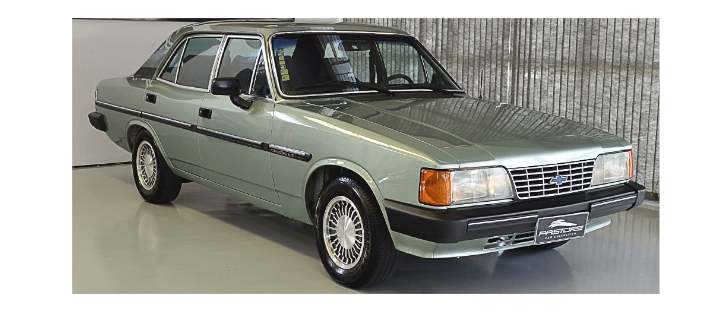
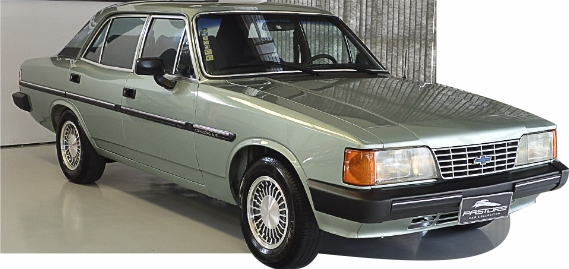
Incluido BackGround color

diff --git a/index.html b/index.html
@@ -8,7 +8,7 @@
     
 </head>
 <body>
-    
+    <div class="bg">
     
     <ul id="menu">
         <li>
@@ -21,12 +21,14 @@
     <h1 class="center" >Opala Comodoro 89</h1>
     <div class="container">
     
-    <img src="assests/img/Chevrolet-Opala-Comodoro-SL-E-4.1-S-1990-Motor-Tudo-9.jpeg" alt="Foto opala">
+    <img src="assests/img/Chevrolet-Opala-Comodoro-SL-E-4.1-S-1990-Motor-Tudo-9_1.png" alt="Foto opala">
     </div>
    
 
     <div class="p-30">
-    <p class="justify ">Para qualquer colecionador respeitável, 659Km rodados originais já diz tudo sobre uma obra de arte. Certamente o Opala Comodoro 1989 4cc fabricado na cor Cinza Nimbus diz tudo. Observe cada foto, cada detalhe; o carro parece que saiu de fábrica recentemente. Certamente ele será um paradigma para as próximas gerações. Nenhuma peça foi substituída, quebrada ou danificada. Os pneus são originais, o estepe é original e nunca foi rodado. O carpe do porta-malas parece que nunca foi usado. O volante absolutamente zero, sem marcas, acompanhando também a manopla do câmbio. O motor trabalha com perfeição. Durante nossa vistoria o motor permaneceu funcionando. Todas as etiquetas do fabricante são originais. Observe os puxadores de portas, o isqueiro também nunca foi usado. Faróis e lentes dos piscas originais do veículo; é como se fossem novos. Aparentemente o carro nunca foi exposto à chuva ou sol. Vidros originais não possuem riscos. As etiquetas do para-brisa originais. A beleza do carro ainda se estende na parte inferior do mesmo. A suspensão e a parte inferior do motor parece que foram fabricados há pouco tempo. Fazemos questão de que você analise as dezenas de fotos da suspensão, motor e da parte inferior do veículo. Absolutamente perfeito, original e sem retoques, com todas as marcas de fábrica. Observe as cores verde e amarelo feitas em pincel na parte frontal do agregado e no diferencial a pintura verde. As etiquetas do fabricante ainda se encontram no eixo traseiro. Não existem marcas de barro ou de areia em qualquer lugar do veículo. Os cubos de roda externo e internos ainda com pintura original e sem sujeiras. A vedação do tanque de combustível ainda possui a resina preta de fábrica. Observe a pintura do fundo do carro onde em alguns locais a pistola do pintor na fábrica efetuou pintura com a clássica cor verde azulado característico do fabricante. Em outras partes do fundo você pode observar que não foi efetuado tal procedimento. Somente um carro absolutamente com baixíssima quilometragem consegue esse nível de perfeição e originalidade. Observe a foto onde aparece o diferencial do veículo com a barra transversal, acima do mesmo a tinta não foi aplicada na fábrica, permanecendo apenas a tinta do fundo, entre outros detalhes maravilhosos. Outro detalhe importantíssimo, fotografamos o interior do para-choque e o suporte do mesmo suporte, sem comentários. As borrachas e plásticos em toda a superfície do carro encontram-se em excelente estado (aparência de novas). As borrachas dos vidros e seu encaixe na lataria do veículo também demonstram que o carro não sofreu com a ação do tempo, barro ou areia. Um detalhe surpreendente é a foto da caixa de mudanças, ainda com a pintura original; sem marcas de graxa, barro ou avarias. Somente um veículo com 600Km rodados pode apresentar um nível de originalidade e perfeição dessa forma. Uma joia de 31 anos de idade literalmente intocado mecanicamente, estruturalmente e em seu interior. Nada foi substituído no carro. Outro detalhe marcante são os dutos de saúda do ar para o habitáculo, no interior do veículo. Perfeitos, sem qualquer uso. Certamente um ganhador de troféus em qualquer evento que comparecer. Acompanha ainda manual do proprietário entre outros documentos do fabricante e a chave reserva. O carro não possui placa preta, entretanto ainda possui placas cinza, e acompanha o primeiro jogo de placas do mesmo.</p>  
+    <p class="justify ">Para qualquer colecionador respeitável, 659Km rodados originais já diz tudo sobre uma obra de arte. Certamente o Opala Comodoro 1989 4cc fabricado na cor Cinza Nimbus diz tudo. Observe cada foto, cada detalhe; o carro parece que saiu de fábrica recentemente. Certamente ele será um paradigma para as próximas gerações. Nenhuma peça foi substituída, quebrada ou danificada. Os pneus são originais, o estepe é original e nunca foi rodado. O carpe do porta-malas parece que nunca foi usado. O volante absolutamente zero, sem marcas, acompanhando também a manopla do câmbio. O motor trabalha com perfeição. Durante nossa vistoria o motor permaneceu funcionando. Todas as etiquetas do fabricante são originais. Observe os puxadores de portas, o isqueiro também nunca foi usado. Faróis e lentes dos piscas originais do veículo; é como se fossem novos. Aparentemente o carro nunca foi exposto à chuva ou sol. Vidros originais não possuem riscos. As etiquetas do para-brisa originais. A beleza do carro ainda se estende na parte inferior do mesmo. A suspensão e a parte inferior do motor parece que foram fabricados há pouco tempo. Fazemos questão de que você analise as dezenas de fotos da suspensão, motor e da parte inferior do veículo. Absolutamente perfeito, original e sem retoques, com todas as marcas de fábrica. Observe as cores verde e amarelo feitas em pincel na parte frontal do agregado e no diferencial a pintura verde. As etiquetas do fabricante ainda se encontram no eixo traseiro. Não existem marcas de barro ou de areia em qualquer lugar do veículo. </p>
+        
+    <p class="justify">Os cubos de roda externo e internos ainda com pintura original e sem sujeiras. A vedação do tanque de combustível ainda possui a resina preta de fábrica. Observe a pintura do fundo do carro onde em alguns locais a pistola do pintor na fábrica efetuou pintura com a clássica cor verde azulado característico do fabricante. Em outras partes do fundo você pode observar que não foi efetuado tal procedimento. Somente um carro absolutamente com baixíssima quilometragem consegue esse nível de perfeição e originalidade. Observe a foto onde aparece o diferencial do veículo com a barra transversal, acima do mesmo a tinta não foi aplicada na fábrica, permanecendo apenas a tinta do fundo, entre outros detalhes maravilhosos. Outro detalhe importantíssimo, fotografamos o interior do para-choque e o suporte do mesmo suporte, sem comentários. As borrachas e plásticos em toda a superfície do carro encontram-se em excelente estado (aparência de novas). As borrachas dos vidros e seu encaixe na lataria do veículo também demonstram que o carro não sofreu com a ação do tempo, barro ou areia. Um detalhe surpreendente é a foto da caixa de mudanças, ainda com a pintura original; sem marcas de graxa, barro ou avarias. Somente um veículo com 600Km rodados pode apresentar um nível de originalidade e perfeição dessa forma. Uma joia de 31 anos de idade literalmente intocado mecanicamente, estruturalmente e em seu interior. Nada foi substituído no carro. Outro detalhe marcante são os dutos de saúda do ar para o habitáculo, no interior do veículo. Perfeitos, sem qualquer uso. Certamente um ganhador de troféus em qualquer evento que comparecer. Acompanha ainda manual do proprietário entre outros documentos do fabricante e a chave reserva. O carro não possui placa preta, entretanto ainda possui placas cinza, e acompanha o primeiro jogo de placas do mesmo.</p>  
        </div>
 
        
@@ -37,7 +39,8 @@
     width="560" 
     height="315"
      src="https://www.youtube.com/embed/eYUBsCqk3bQ" frameborder="0" allow="accelerometer; autoplay; encrypted-media; gyroscope; picture-in-picture" allowfullscreen></iframe>
-    </div>
-
+        </div>
+    <p class="center">@mauriciogrs</p>
+        </div>
 </body>
 </html>

diff --git a/contato.html b/contato.html
@@ -7,6 +7,7 @@
     <link rel="stylesheet" href="assests/css/style.css">
 </head>
 <body>
+    <div class="bg">
     <ul id="menu">
         <li>
             <a href="index.html">Home</a>
@@ -39,7 +40,7 @@
     <div class="container">
     <iframe src="https://www.google.com/maps/embed?pb=!1m18!1m12!1m3!1d29197.32477497633!2d-46.8343735180757!3d-23.830487511181566!2m3!1f0!2f0!3f0!3m2!1i1024!2i768!4f13.1!3m3!1m2!1s0x94ce4b3022729749%3A0xb063104e9ced173b!2sCentro%2C%20Embu-Gua%C3%A7u%20-%20SP%2C%2006900-000!5e0!3m2!1spt-BR!2sbr!4v1597696948610!5m2!1spt-BR!2sbr" width="400" height="250" frameborder="0" style="border:0;" allowfullscreen="" aria-hidden="false" tabindex="0"></iframe>
     </div>
-
+</div>
     
 </body>
 </html>

diff --git a/assests/css/style.css b/assests/css/style.css
@@ -29,6 +29,7 @@
  }
 
  .p-30 {
+    
    margin: 8px 30px 8px 30px;
  }
  
@@ -37,6 +38,8 @@
     display: flex;
     justify-content: center;
     padding: 20px;
-    
+ }
 
-}
+ .bg{
+    background-color:rgba(255, 251, 197, 0.404);
+ }
